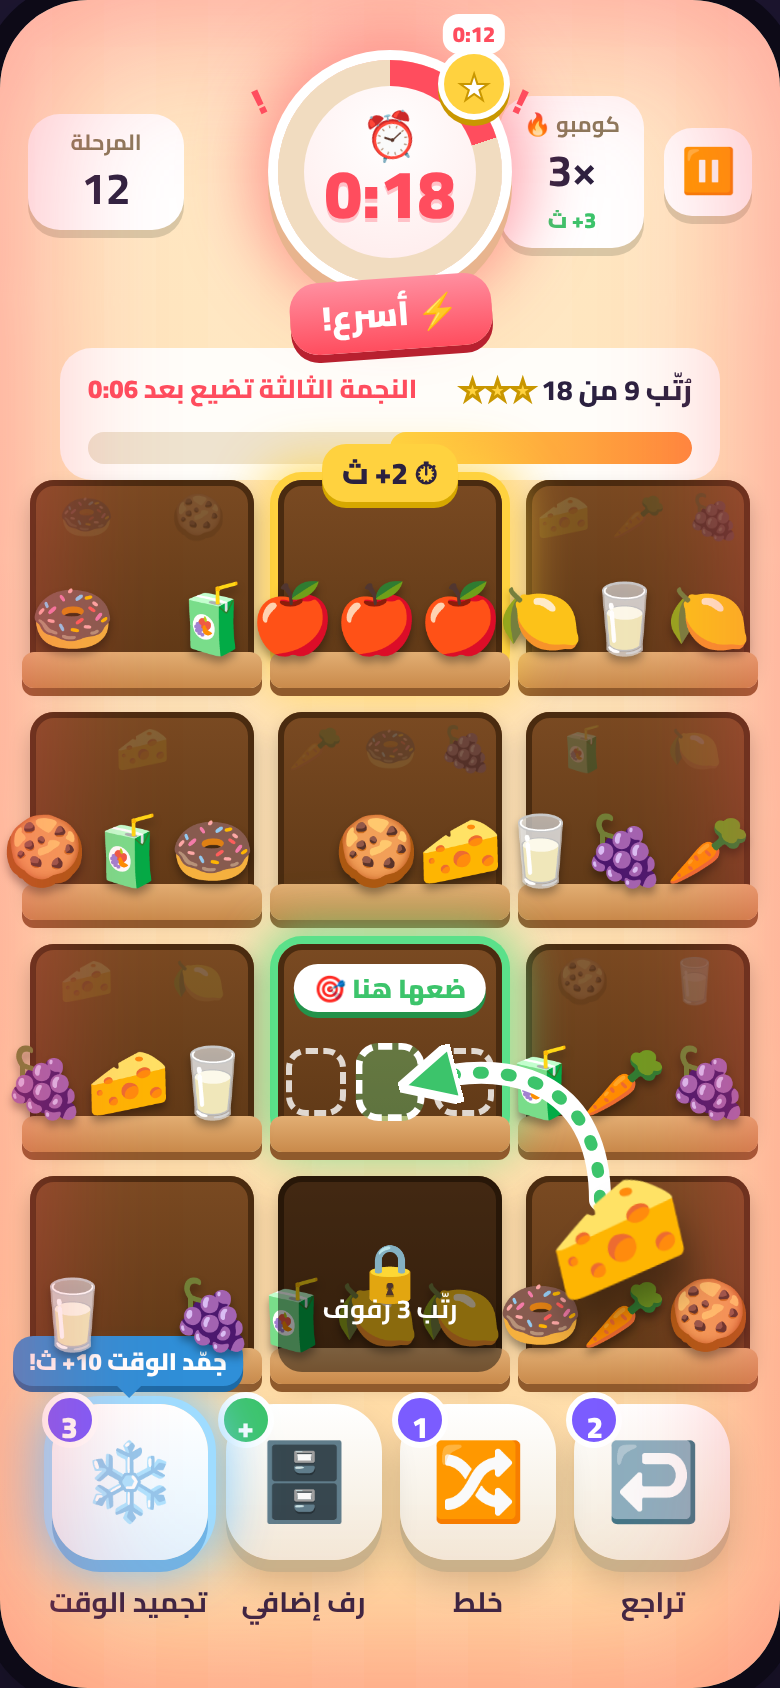
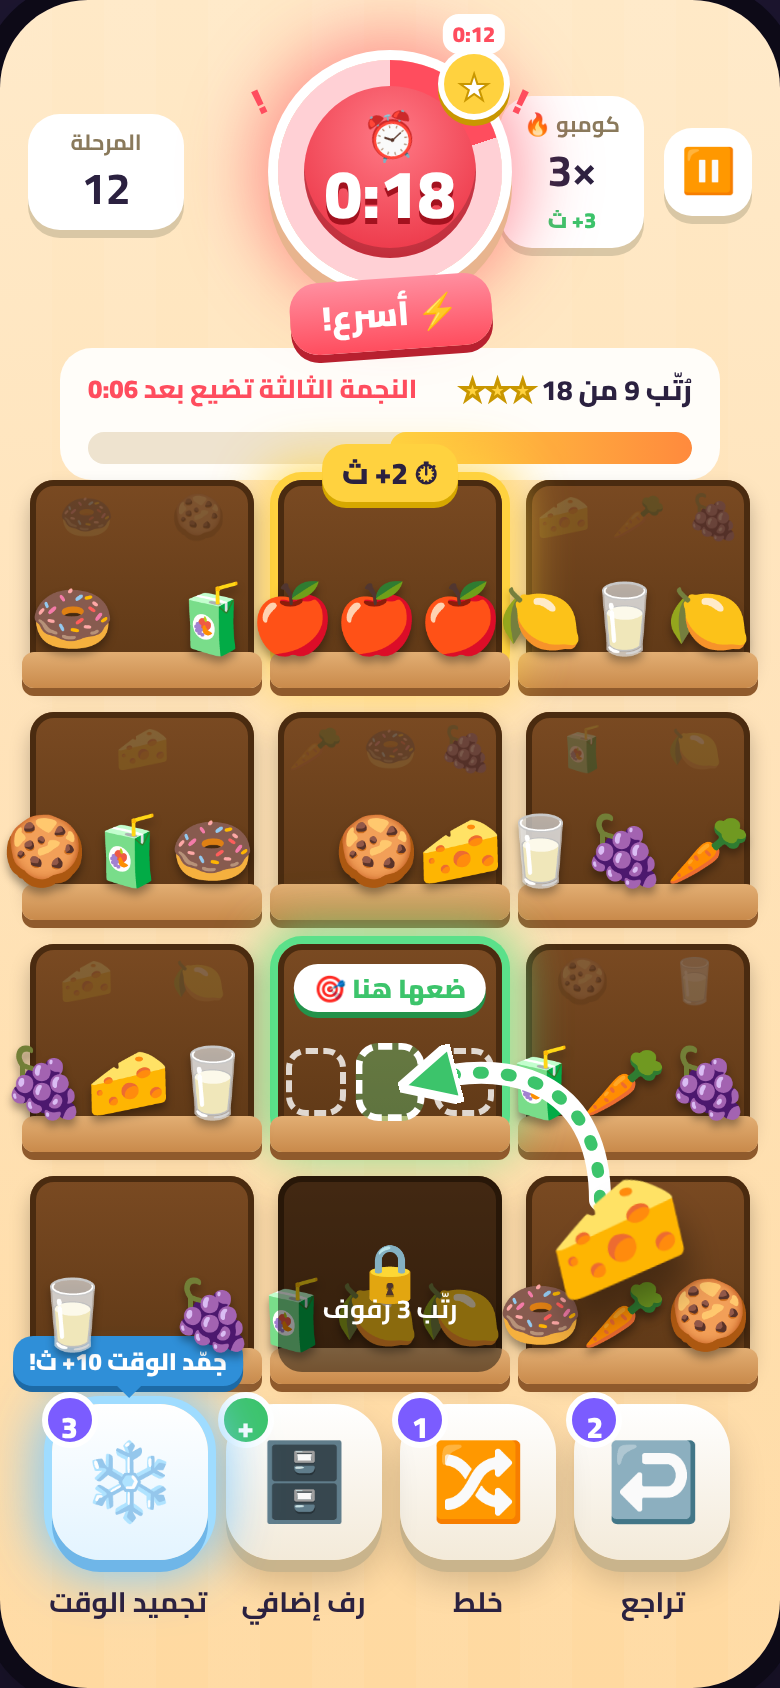
Mockups: red timer only, no red screen edges
Claude-Session: https://claude.ai/code/session_0198GSpUHpAsMi38EfXjb44N

Changed region(s): [[0.0, 0.0, 1.0, 1.0]]

diff --git a/design/mockups/shelf-sort-mockups.html b/design/mockups/shelf-sort-mockups.html
@@ -150,12 +150,12 @@ body { font-family: "Cairo", sans-serif; background: #1d1630; color: var(--ink);
 .game-hud { position: absolute; top: 48px; left: 14px; right: 14px; display: flex; align-items: center; gap: 10px; }
 .timer { position: absolute; top: 30px; left: 50%; transform: translateX(-50%); z-index: 7; text-align: center; }
 .timer .ring { width: 112px; height: 112px; border-radius: 50%; display: grid; place-items: center;
-  background: conic-gradient(from 0deg, #ff4d5e 0 20%, #f1dcc0 20% 100%);
+  background: conic-gradient(from 0deg, #ff4d5e 0 20%, #ffd0d5 20% 100%);
   box-shadow: 0 0 0 5px #fff, 0 7px 0 5px #e8b48e, 0 0 34px 12px rgba(255,77,94,.55); }
-.timer .inner { width: 86px; height: 86px; border-radius: 50%; background: radial-gradient(circle at 50% 30%, #fff, #ffeaea);
+.timer .inner { width: 86px; height: 86px; border-radius: 50%; background: radial-gradient(circle at 50% 30%, #ff7a86, #e8283a); box-shadow: inset 0 -5px 0 rgba(0,0,0,.18);
   display: flex; flex-direction: column; align-items: center; justify-content: center; }
 .timer .inner .emoji { font-size: 22px; transform: rotate(-12deg); }
-.timer .inner strong { font-size: 34px; font-weight: 900; color: var(--red); line-height: 1; direction: ltr; text-shadow: 0 2px 0 #ffc2c8; }
+.timer .inner strong { font-size: 34px; font-weight: 900; color: #fff; line-height: 1; direction: ltr; text-shadow: 0 3px 0 #a3121f; }
 .timer .hurry { display: inline-block; margin-top: -12px; position: relative; background: linear-gradient(180deg, #ff8fa0, var(--red)); color: #fff;
   font-weight: 900; font-size: 17px; padding: 2px 16px; border-radius: 14px; box-shadow: 0 4px 0 #b8202f; transform: rotate(-4deg); white-space: nowrap; }
 .timer .tick { position: absolute; top: 4px; font-size: 18px; font-weight: 900; color: var(--red); }
@@ -405,7 +405,6 @@ body { font-family: "Cairo", sans-serif; background: #1d1630; color: var(--ink);
     <div class="spacer"></div>
     <div class="stat"><small>المرحلة</small><strong>12</strong></div>
   </div>
-  <div class="urgent"></div>
   <div class="timer">
     <span class="tick a">!</span><span class="tick b">!</span>
     <div class="star-mark" style="left:83px;top:-3px">★<small>0:12</small></div>
